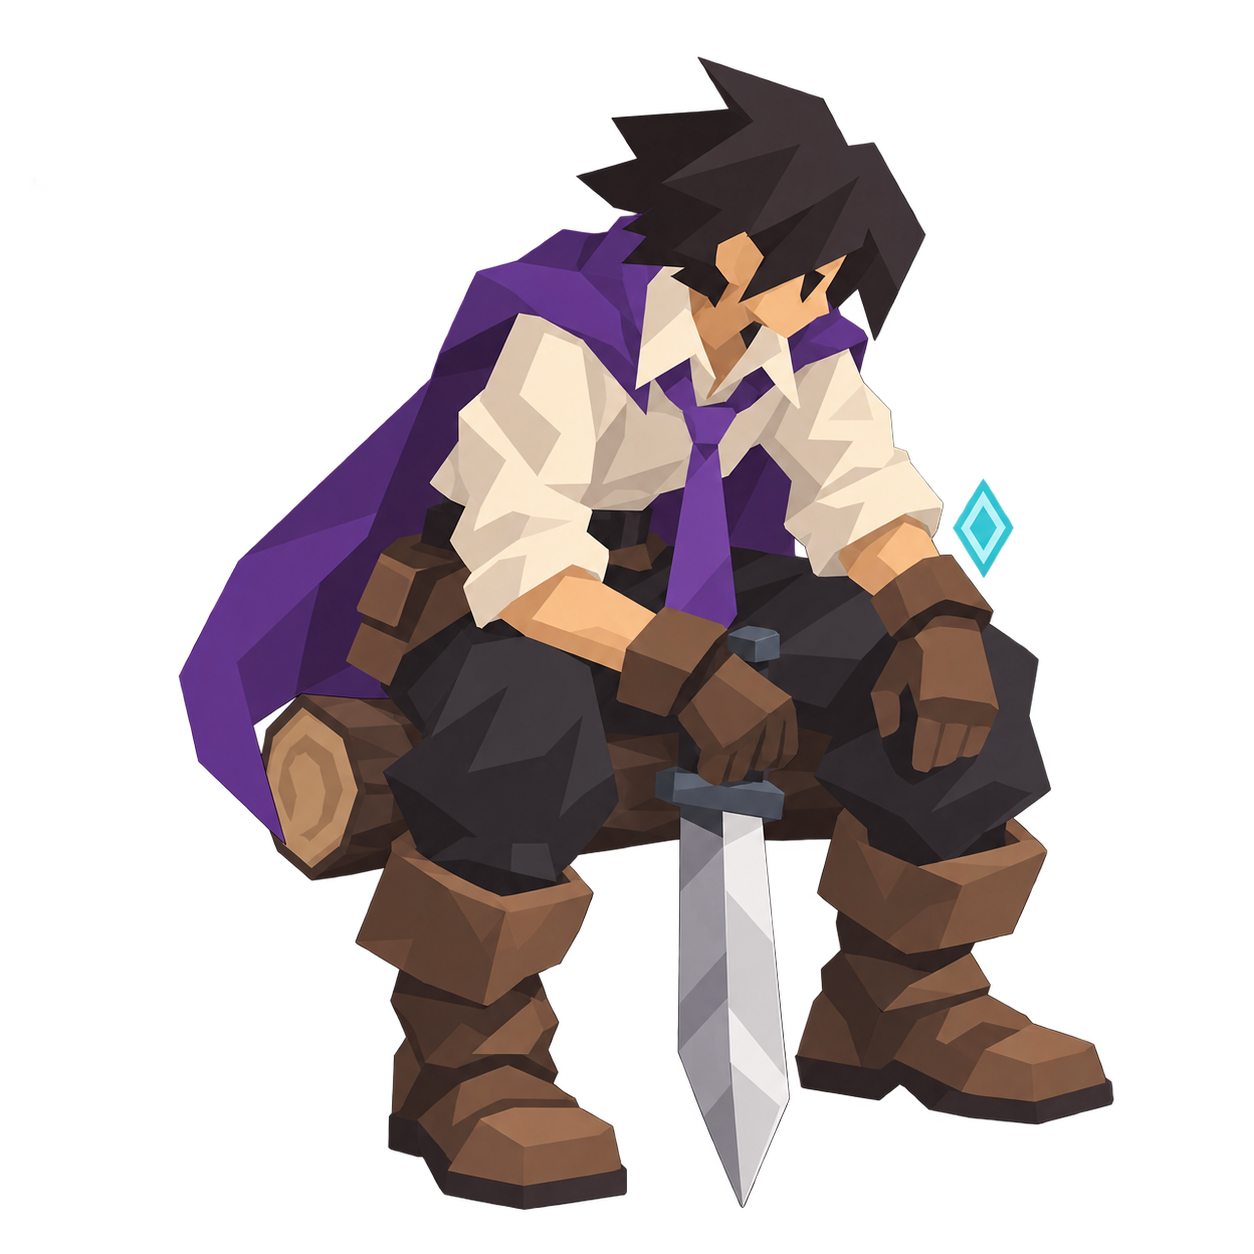
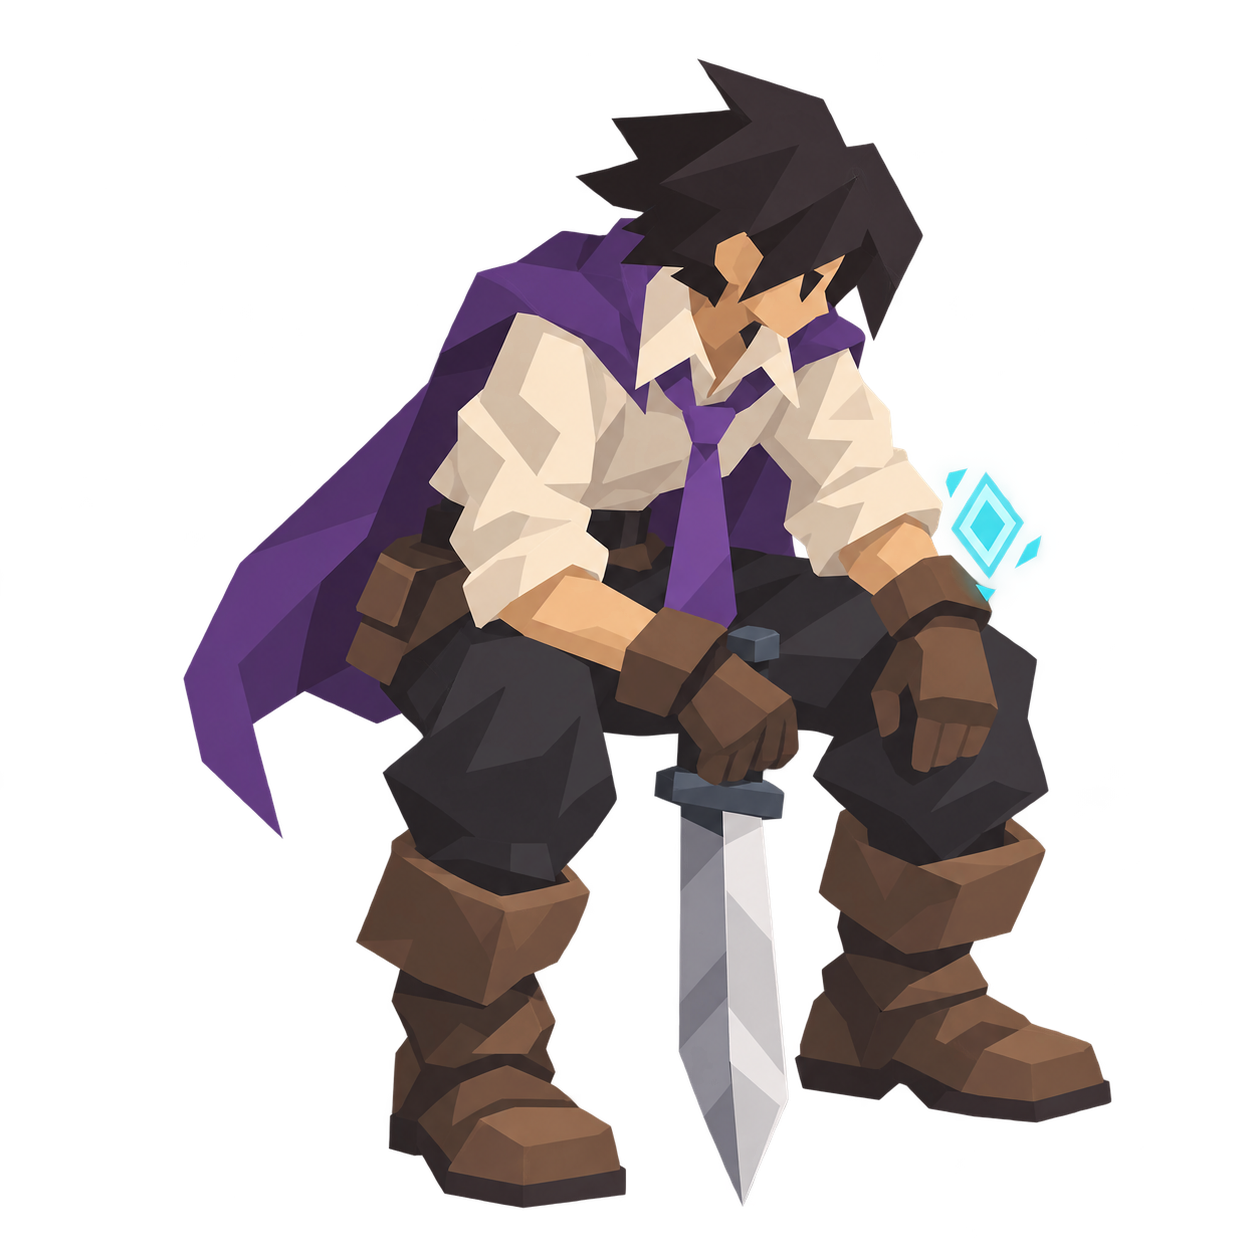
Fix shop facing direction and remove baked-in rest-site log

diff --git a/IsekaiHeroCode/Character/IsekaiHeroRoomArt.cs b/IsekaiHeroCode/Character/IsekaiHeroRoomArt.cs
@@ -34,6 +34,7 @@ internal static class IsekaiHeroRoomArt
             Name = "Sprite",
             Texture = texture,
             Centered = false,
+            FlipH = !rest, // Shop faces right; seated art already faces right.
             Scale = Vector2.One * factor,
             Position = rest
                 ? new Vector2(-texture.GetWidth() * factor / 2 + 55, -364)

diff --git a/docs/RoomCharacterArt.md b/docs/RoomCharacterArt.md
@@ -4,9 +4,9 @@ The two original sprites follow the established anonymous office-worker hero: cr
 
 ## Assets and prompts
 
-- `IsekaiHero/images/character/hero_rest_site_v1.png`: 1254 x 1254 RGBA; seated hero on a log, facing right, sword safely lowered.
-- `IsekaiHero/images/character/hero_shop_v1.png`: 1024 x 1536 RGBA; thoughtful standing hero facing left toward the merchant, sword lowered and a small cyan system panel.
-- Both were generated/refined with the built-in imagegen tool and copied without raster post-processing. Generated alpha is preserved. Discarded atmospheric shop variants are not shipped.
+- `IsekaiHero/images/character/hero_rest_site_v1.png`: 1254 x 1254 RGBA; seated hero facing right, sword safely lowered; no seat/log is baked into the sprite because the room backdrop already supplies one.
+- `IsekaiHero/images/character/hero_shop_v1.png`: 1024 x 1536 RGBA; thoughtful standing hero with sword lowered and a small cyan system panel. The source faces left; Sprite2D.FlipH makes it face right in the shop.
+- Both were generated with the built-in imagegen tool and copied without raster post-processing. The rest sprite uses the original generation before the discarded log refinement. Generated alpha is preserved. Discarded atmospheric shop variants are not shipped.
 - The exact generation/refinement prompts for the shipped images are in [room-character-art.json](art-prompts/room-character-art.json).
 - [Native Godot preview](animations/room-character-art.png) shows the packaged textures on plain backgrounds. It is an asset/placement preview, not an in-game capture.
 
@@ -18,7 +18,7 @@ The inherited room scenes still load; their top-level Spine artwork is hidden on
 
 Sprites use native nodes and bound breathing tweens, with no new C# Godot callbacks. Shop `die` requests also slump/dim the replacement art. The character preloads both textures. This avoids adding unsupported `.tscn` files to the quick PCK packer.
 
-The raw image scales are 0.56 for the camp and 0.30 for the shop. Camp art uses the inherited scene's mid-body origin and 0.760006 root scale; shop art uses a feet origin. The original camp uses a 421 x 683 local hitbox; the new 530 x 660 bounds include the seated cape and log.
+The raw image scales are 0.56 for the camp and 0.30 for the shop. Camp art uses the inherited scene's mid-body origin and 0.760006 root scale; shop art uses a feet origin. The original camp uses a 421 x 683 local hitbox; the new 530 x 660 bounds include the seated cape and boots.
 
 ## Verification
 

diff --git a/docs/IsekaiHero_Design.md b/docs/IsekaiHero_Design.md
@@ -461,8 +461,8 @@ Keep the anonymous office-worker adventurer consistent: messy dark hair, cream r
 
 | Status | Asset | Implementation / acceptance |
 | --- | --- | --- |
-| [x] | Rest-site character | Original seated hero/log sprite, subtle native breathing; replaces visible Ironclad art while retaining rest-site controls and thought bubbles. Single-player in-game acceptance pending. |
-| [x] | Shop character | Original standing, thoughtful hero sprite, subtle breathing and a shop death reaction; replaces visible Ironclad art. Single-player in-game acceptance pending. |
+| [x] | Rest-site character | Original seated hero sprite, with no baked-in log (the backdrop supplies it), subtle native breathing; replaces visible Ironclad art while retaining rest-site controls and thought bubbles. Single-player in-game acceptance pending. |
+| [x] | Shop character | Original right-facing standing, thoughtful hero sprite, subtle breathing and a shop death reaction; replaces visible Ironclad art. Single-player in-game acceptance pending. |
 | [ ] | Multiplayer pointing hand | Still inherits Ironclad; create a matching gloved hand. Multiplayer testing deferred until available. |
 | [ ] | Multiplayer rock hand | Still inherits Ironclad; multiplayer testing deferred. |
 | [ ] | Multiplayer paper hand | Still inherits Ironclad; multiplayer testing deferred. |
